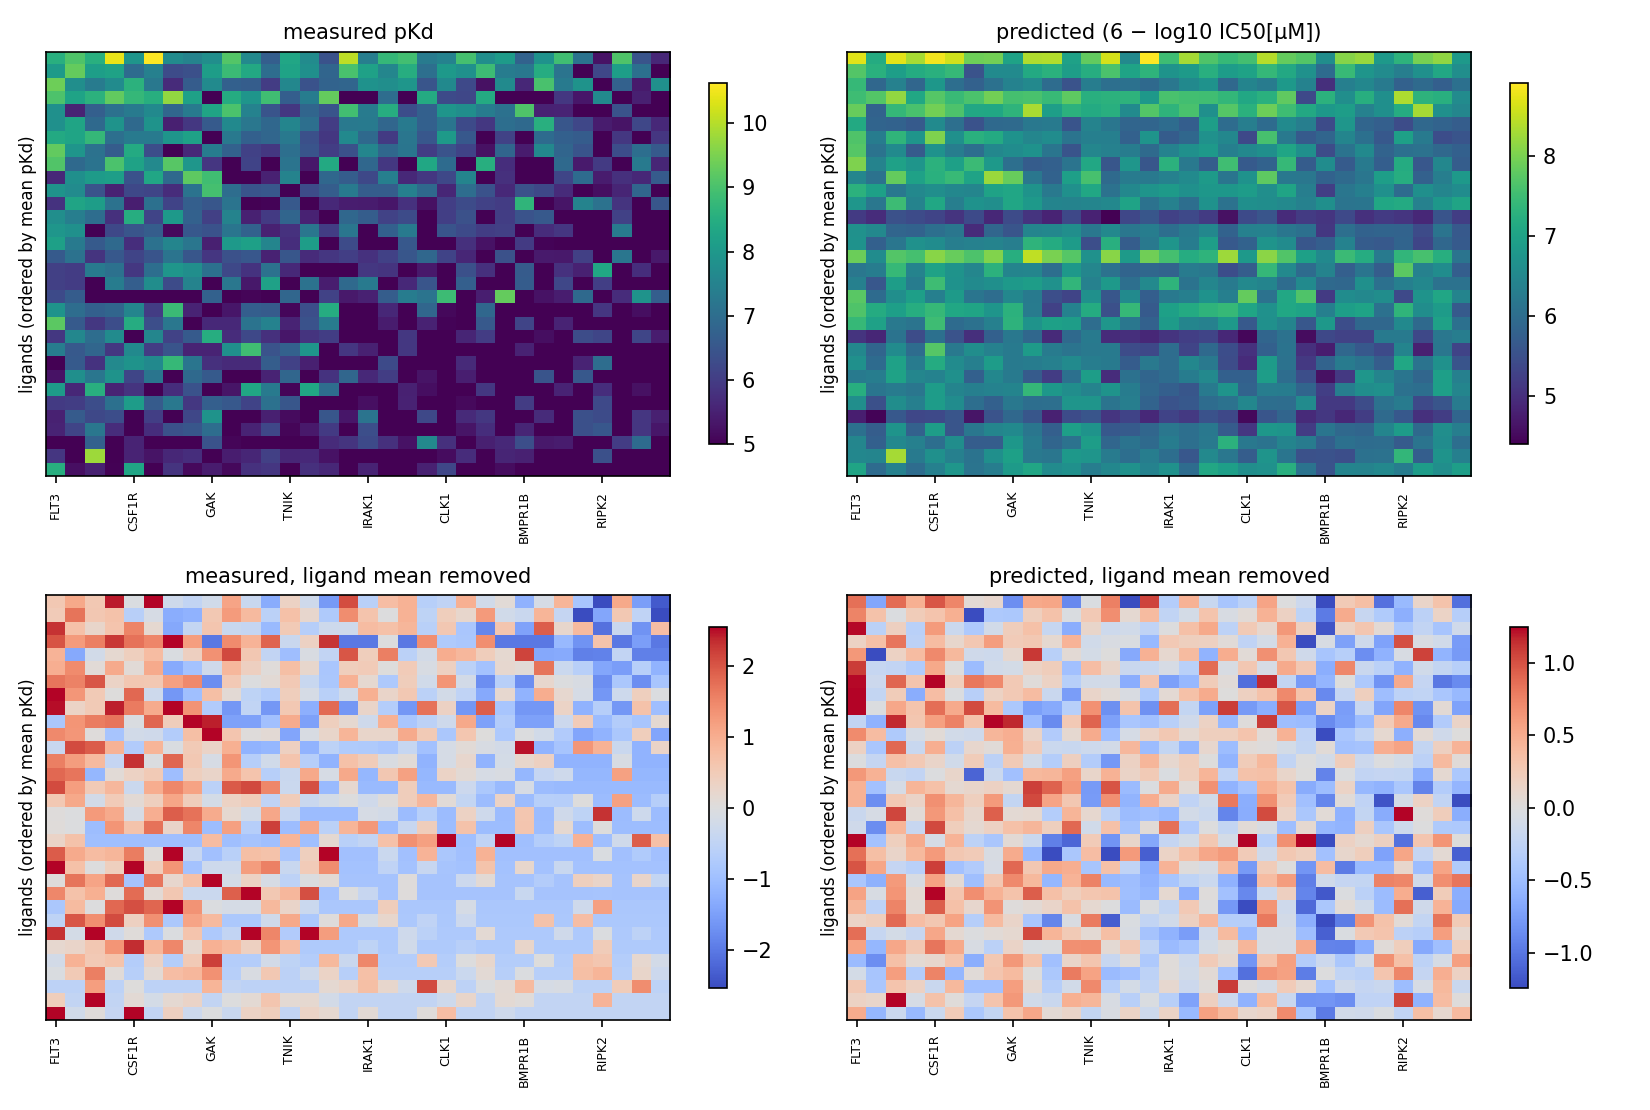
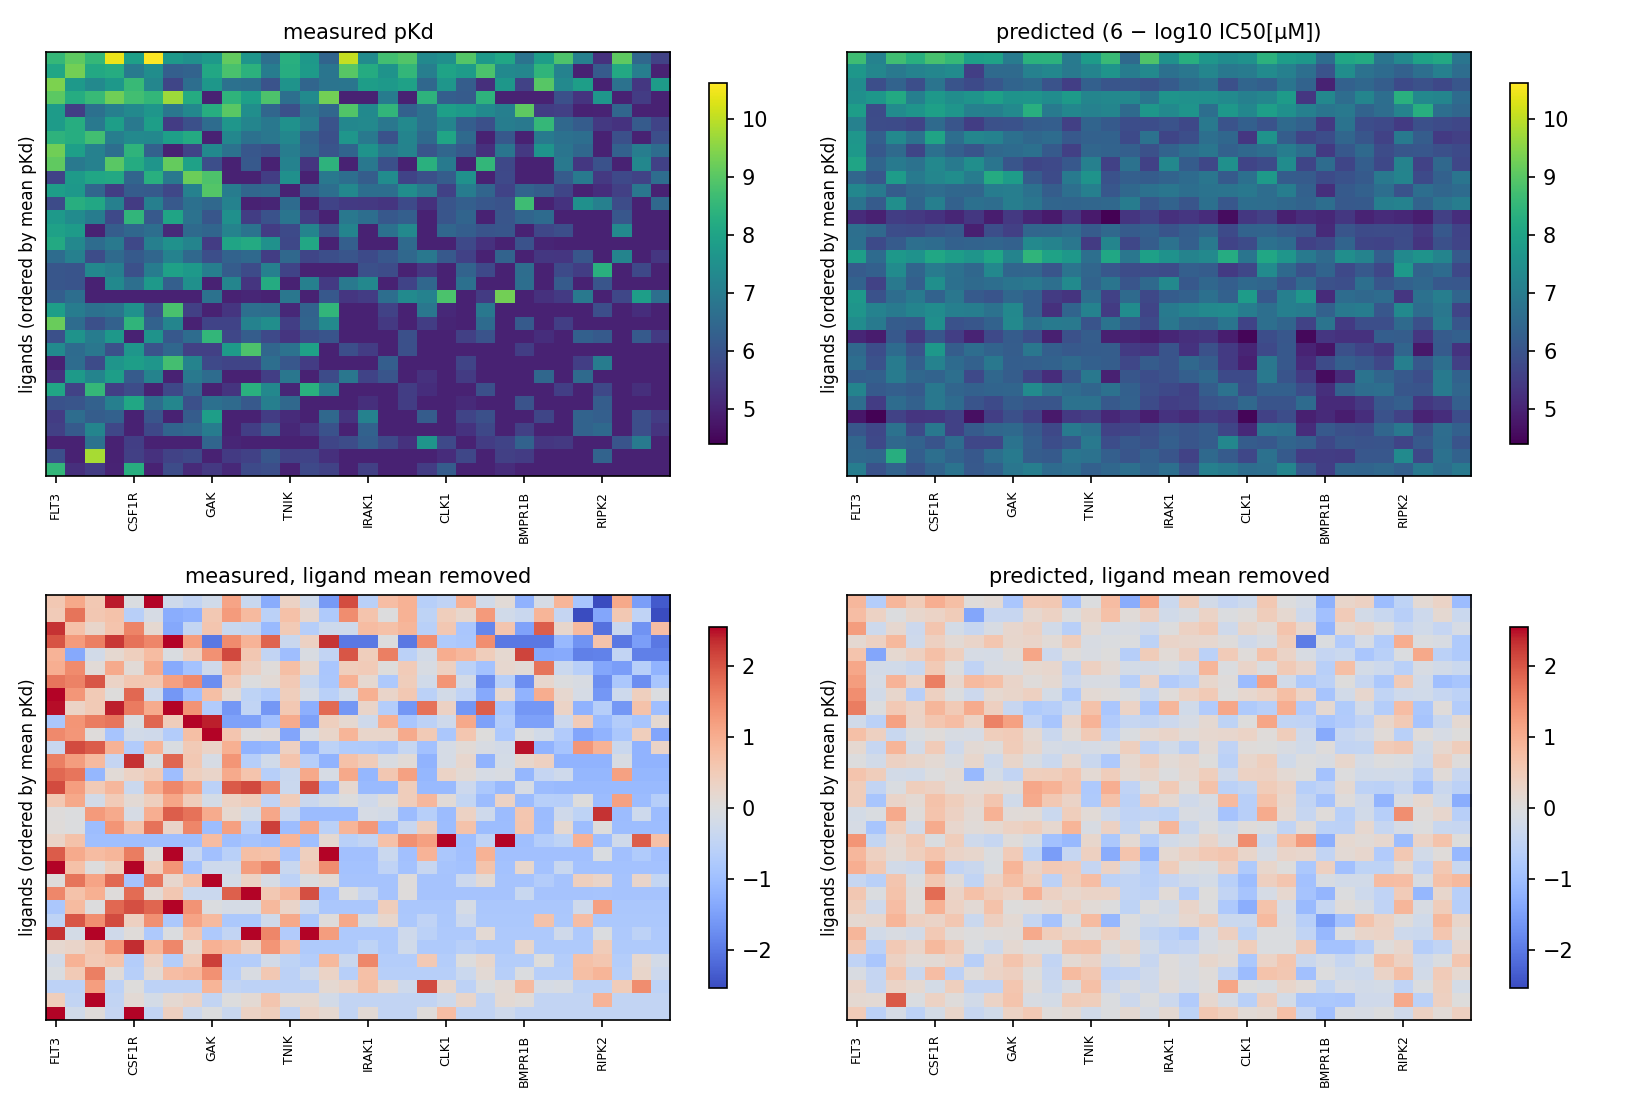
research-lab: cofold-selectivity - D13: embed the missing figures; fix a heatmap that hid the result
The published report.html had none of its five figures (report.md had no image tags, so the builder never
embedded them). F2's lower heatmaps also used separate colour scales (+/-2.5 vs +/-1.2), which made the
predicted panel look as variable as the measured one and hid the report's own compression finding. Each
row now shares one scale. No number changes.

Claude-Session: https://claude.ai/code/session_01F4XU94RLz4kFVSs5LcJjTK

diff --git a/research-lab/runs/cheminformatics-drug-discovery-cofold-selectivity/report.html b/research-lab/runs/cheminformatics-drug-discovery-cofold-selectivity/report.html
@@ -423,6 +423,7 @@ extractable</em>, not fair competitors to a zero-shot model: neither can be comp
 has profiled yet, which is the situation the model is meant to serve. They are the right bar for "is this
 worth running", and the wrong bar for "is this impressive".</p>
 <h3>P1 is the one statistic that does not separate them, and the reason is the assay ceiling</h3>
+<figure><a href="results/figures/F1_selectivity.png"><img src="results/figures/F1_selectivity.png" alt="Per-ligand selectivity correlations, model and baselines"></a><figcaption>Left: the selectivity axis. Each point is one ligand&#x27;s Spearman correlation between Boltz-2&#x27;s predicted affinity and the measured Davis pKd across the 32 panel kinases, with the same statistic for the chemistry-free target-promiscuity baseline, the nearest-chemical-neighbour baseline and the ligand-only baseline (exactly zero by construction). The dashed line is the preregistered threshold of 0.25. Right: four example ligands (the four with the most uncensored panel cells); grey points are cells at the 10 µM assay ceiling.</figcaption></figure>
 <p>Paired ligand bootstraps of the difference, model minus baseline, over every rank statistic a selectivity
 user might reasonably ask for:</p>
 <p>Bold marks the margins wide enough to survive a multiplicity correction over the sixteen comparisons in
@@ -589,6 +590,8 @@ while the ligand main effect swells from 25 % to 53 %.</p>
 </tr>
 </tbody>
 </table></div>
+<figure><a href="results/figures/F3_decomposition.png"><img src="results/figures/F3_decomposition.png" alt="Variance decomposition and the conventional axis"></a><figcaption>Left: how much of the variation in the panel belongs to the ligand, to the kinase and to the ligand-by-kinase interaction, for the measurements and for Boltz-2&#x27;s predictions. A protein-blind predictor has a kinase share near zero. Right: the conventional axis — ranking ligands within one kinase — one correlation per kinase, against the hypothesis&#x27;s floor of 0.4.</figcaption></figure>
+<figure><a href="results/figures/F2_panels.png"><img src="results/figures/F2_panels.png" alt="Measured and predicted panels"></a><figcaption>The panel as measured and as predicted, ligands in rows (ordered by mean measured pKd) and kinases in columns (likewise). The lower row removes each ligand&#x27;s own mean, which is what the selectivity question is about: horizontal banding in the lower-right panel would mean the model varies by ligand but not by target, while agreement between the two lower panels would mean it tracks the real selectivity profile. Each row shares one colour scale, so the paler lower-right panel shows directly how much smaller the predicted differences between kinases are.</figcaption></figure>
 <p>The predictions are also compressed: the spread of a ligand's profile is half the measured spread (SD 0.52
 against 1.00), and across the whole panel 0.76 against 1.19. So differences are in the right direction more
 often than not, but systematically too small.</p>
@@ -717,6 +720,7 @@ deviations. No decoy ever outscored a ligand's best kinase (0 of 128), and only 
 ligand's kinase <em>mean</em>. The binary probability separates them further still (median 0.07 – 0.29 against
 0.44 for kinases). Kinase inhibitors are recognised as kinase binders; this is the easy discrimination, and
 the model passes it cleanly.</p>
+<figure><a href="results/figures/F4_decoys.png"><img src="results/figures/F4_decoys.png" alt="Decoy proteins against the kinome"></a><figcaption>Left: each ligand re-scored against four non-kinase proteins, as the gap from that ligand&#x27;s mean prediction over the 32 kinases; the dotted line is the median spread of a ligand&#x27;s own predictions inside the kinome, so points inside that band are shifts no larger than the model&#x27;s ordinary variation between kinases. HSP90&#x27;s N-terminal domain is a nucleotide-binding non-kinase, included to see whether generic ATP-pocket character is what the head responds to. Right: the two affinity outputs against each other for panel and decoy complexes.</figcaption></figure>
 <p>The plan put a specific question to this arm: HSP90α was included as a <em>nucleotide-binding</em> non-kinase, so
 if the head were responding to generic ATP-pocket character rather than to kinase identity, HSP90 should
 score like a kinase. It does not — but it is the most kinase-like of the four, on both read-outs: binder
@@ -772,6 +776,7 @@ Ninety-three pairs is the ceiling of what public post-cutoff kinase profiling cu
 5,205, and accuracy barely tracks them: Spearman 0.147 against the within-kinase correlation, 0.251 against
 pairwise concordance, −0.041 against absolute error. On this panel the model is not simply reciting the
 best-measured targets.</p>
+<figure><a href="results/figures/F5_sampling_support.png"><img src="results/figures/F5_sampling_support.png" alt="Affinity sampling and training support"></a><figcaption>Left: the same 8 × 12 sub-panel at the default affinity sampling and at the heavier setting that BoltzOmics reported to improve within-drug ranking across protein variants; lines join the same ligand. Right: per-kinase accuracy on the conventional axis against how much pre-2024 ChEMBL data exists for that kinase, a proxy for training support.</figcaption></figure>
 <h3>The other head is better</h3>
 <p>One practical finding worth stating separately. Boltz-2 emits a binary binder probability alongside the
 affinity value, and on this axis the probability is consistently the better ranker: P1 = 0.596 against

diff --git a/research-lab/runs/cheminformatics-drug-discovery-cofold-selectivity/code/figures.py b/research-lab/runs/cheminformatics-drug-discovery-cofold-selectivity/code/figures.py
@@ -100,14 +100,20 @@ def f1(prim, pairs):
 
 def f2(pairs):
     pred, meas = grid(pairs, "pred_pic50")
-    fig, axes = plt.subplots(2, 2, figsize=(11, 7.4))
-    for ax, (m, lab, cm) in zip(axes.ravel(), [
-            (meas, "measured pKd", "viridis"), (pred, "predicted (6 − log10 IC50[µM])", "viridis"),
+    rows = [(meas, "measured pKd", "viridis"), (pred, "predicted (6 − log10 IC50[µM])", "viridis"),
             (meas.sub(meas.mean(1), axis=0), "measured, ligand mean removed", "coolwarm"),
-            (pred.sub(pred.mean(1), axis=0), "predicted, ligand mean removed", "coolwarm")]):
+            (pred.sub(pred.mean(1), axis=0), "predicted, ligand mean removed", "coolwarm")]
+    # One colour scale per row, shared by the measured and predicted panels. Separate scales made the
+    # two lower panels look equally variable, which hid the report's own finding that the predictions
+    # are compressed to about half the measured spread.
+    top = np.concatenate([rows[0][0].to_numpy(float).ravel(), rows[1][0].to_numpy(float).ravel()])
+    lo_top, hi_top = np.nanmin(top), np.nanmax(top)
+    lim = np.nanpercentile(np.abs(rows[2][0].to_numpy(float)), 98)      # set by the measured spread
+    fig, axes = plt.subplots(2, 2, figsize=(11, 7.4))
+    for k, (ax, (m, lab, cm)) in enumerate(zip(axes.ravel(), rows)):
         v = m.to_numpy(float)
-        lim = np.nanpercentile(np.abs(v), 98) if cm == "coolwarm" else None
-        im = ax.imshow(v, aspect="auto", cmap=cm, vmin=-lim if lim else None, vmax=lim if lim else None)
+        vmin, vmax = (lo_top, hi_top) if k < 2 else (-lim, lim)
+        im = ax.imshow(v, aspect="auto", cmap=cm, vmin=vmin, vmax=vmax)
         ax.set_title(lab, fontsize=10)
         ax.set_xticks(range(0, m.shape[1], 4))
         ax.set_xticklabels(m.columns[::4], rotation=90, fontsize=6)
@@ -122,7 +128,8 @@ def f2(pairs):
             "kinases in columns (likewise). The lower row removes each ligand's own mean, which is what the "
             "selectivity question is about: horizontal banding in the lower-right panel would mean the "
             "model varies by ligand but not by target, while agreement between the two lower panels would "
-            "mean it tracks the real selectivity profile.")
+            "mean it tracks the real selectivity profile. Each row shares one colour scale, so the paler "
+            "lower-right panel shows directly how much smaller the predicted differences between kinases are.")
 
 
 def f3(prim, pairs):

diff --git a/research-lab/runs/cheminformatics-drug-discovery-cofold-selectivity/report.md b/research-lab/runs/cheminformatics-drug-discovery-cofold-selectivity/report.md
@@ -214,6 +214,8 @@ worth running", and the wrong bar for "is this impressive".
 
 ### P1 is the one statistic that does not separate them, and the reason is the assay ceiling
 
+![Per-ligand selectivity correlations, model and baselines](results/figures/F1_selectivity.png)
+
 Paired ligand bootstraps of the difference, model minus baseline, over every rank statistic a selectivity
 user might reasonably ask for:
 
@@ -277,6 +279,10 @@ while the ligand main effect swells from 25 % to 53 %.
 | kinase (which kinase binds most things) | 14.6 % | 11.4 % |
 | ligand × kinase interaction (selectivity itself) | 59.9 % | 35.2 % |
 
+![Variance decomposition and the conventional axis](results/figures/F3_decomposition.png)
+
+![Measured and predicted panels](results/figures/F2_panels.png)
+
 The predictions are also compressed: the spread of a ligand's profile is half the measured spread (SD 0.52
 against 1.00), and across the whole panel 0.76 against 1.19. So differences are in the right direction more
 often than not, but systematically too small.
@@ -337,6 +343,8 @@ deviations. No decoy ever outscored a ligand's best kinase (0 of 128), and only 
 ligand's kinase *mean*. The binary probability separates them further still (median 0.07 – 0.29 against
 0.44 for kinases). Kinase inhibitors are recognised as kinase binders; this is the easy discrimination, and
 the model passes it cleanly.
+
+![Decoy proteins against the kinome](results/figures/F4_decoys.png)
 
 The plan put a specific question to this arm: HSP90α was included as a *nucleotide-binding* non-kinase, so
 if the head were responding to generic ATP-pocket character rather than to kinase identity, HSP90 should
@@ -402,6 +410,8 @@ Ninety-three pairs is the ceiling of what public post-cutoff kinase profiling cu
 5,205, and accuracy barely tracks them: Spearman 0.147 against the within-kinase correlation, 0.251 against
 pairwise concordance, −0.041 against absolute error. On this panel the model is not simply reciting the
 best-measured targets.
+
+![Affinity sampling and training support](results/figures/F5_sampling_support.png)
 
 ### The other head is better
 

diff --git a/research-lab/runs/cheminformatics-drug-discovery-cofold-selectivity/deviations.md b/research-lab/runs/cheminformatics-drug-discovery-cofold-selectivity/deviations.md
@@ -315,3 +315,15 @@ were as solid as the three large ones.
 
 The reviewer also conceded one point to me: it had written that a single kinase pair was predicted further
 apart than measured, having read the maximum rather than counted. Six of the 496 pairs are.
+
+## D13 — 2026-10-16 18:51 NZDT — post-publication correction: the report had no figures, and one misled
+
+Found while building the next study's report. The published report.html carried none of its five figures:
+the builder embeds an image only where report.md has a markdown image tag, and this report.md had none, so
+F1-F5 existed on disk but never reached the page. They are now embedded where the text cites them.
+
+Viewing F2 for the first time in context showed a worse problem. Its two lower heatmaps (measured and
+predicted, each ligand's mean removed) used separate colour scales - measured +/-2.5, predicted +/-1.2 - so
+they looked equally variable. That hid the report's own finding that the predictions are compressed to about
+half the measured spread. Each row now shares one colour scale, set by the measured values, and the paler
+predicted panel shows the compression directly. No number in the report changes.
